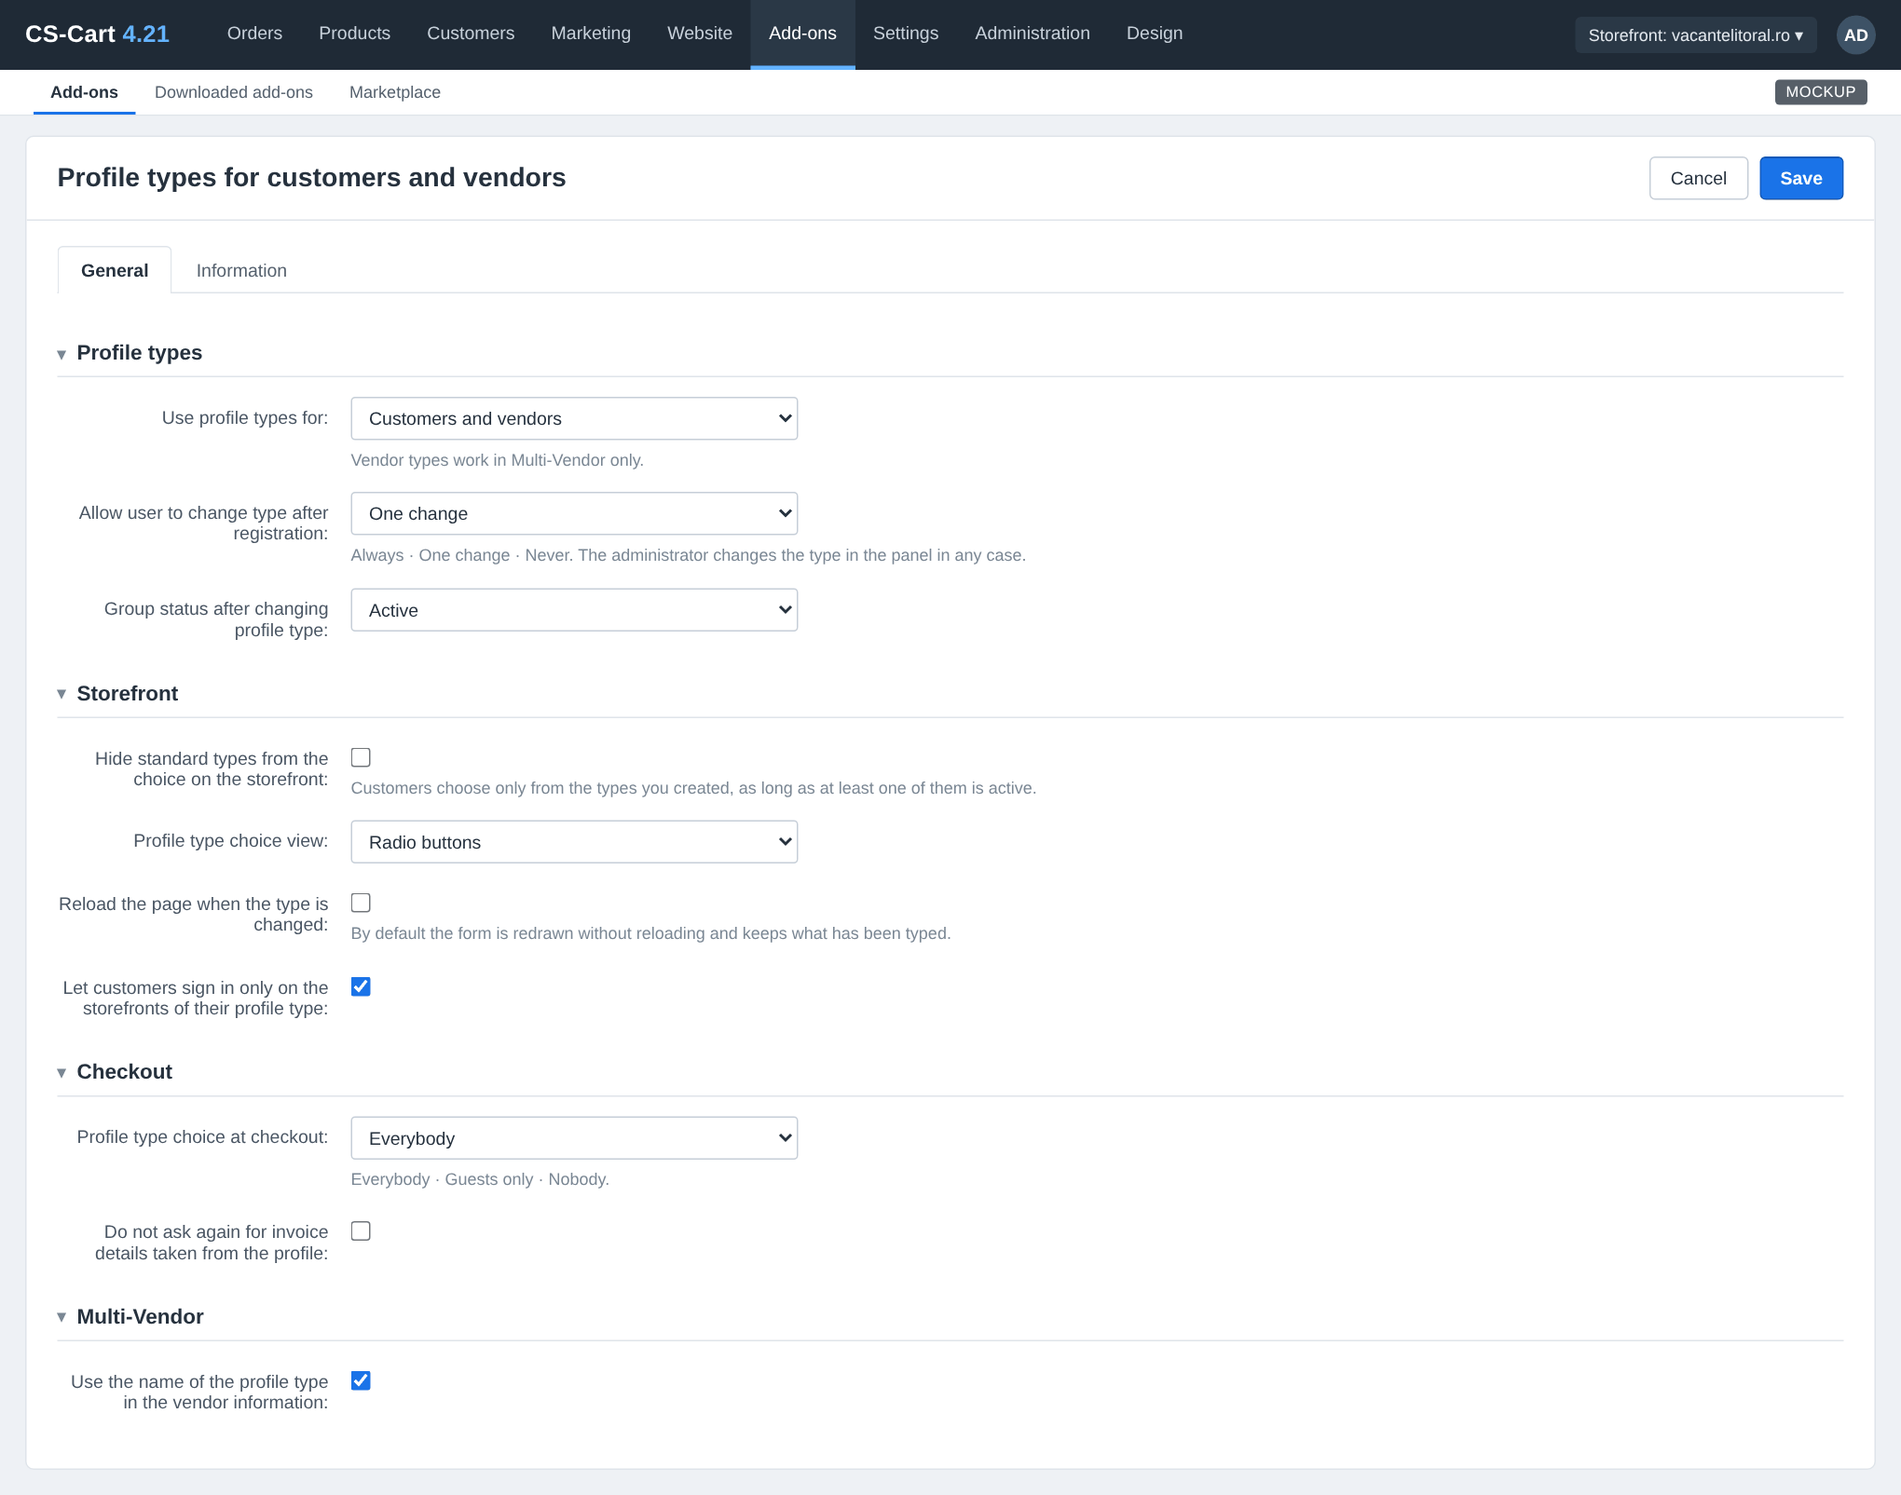
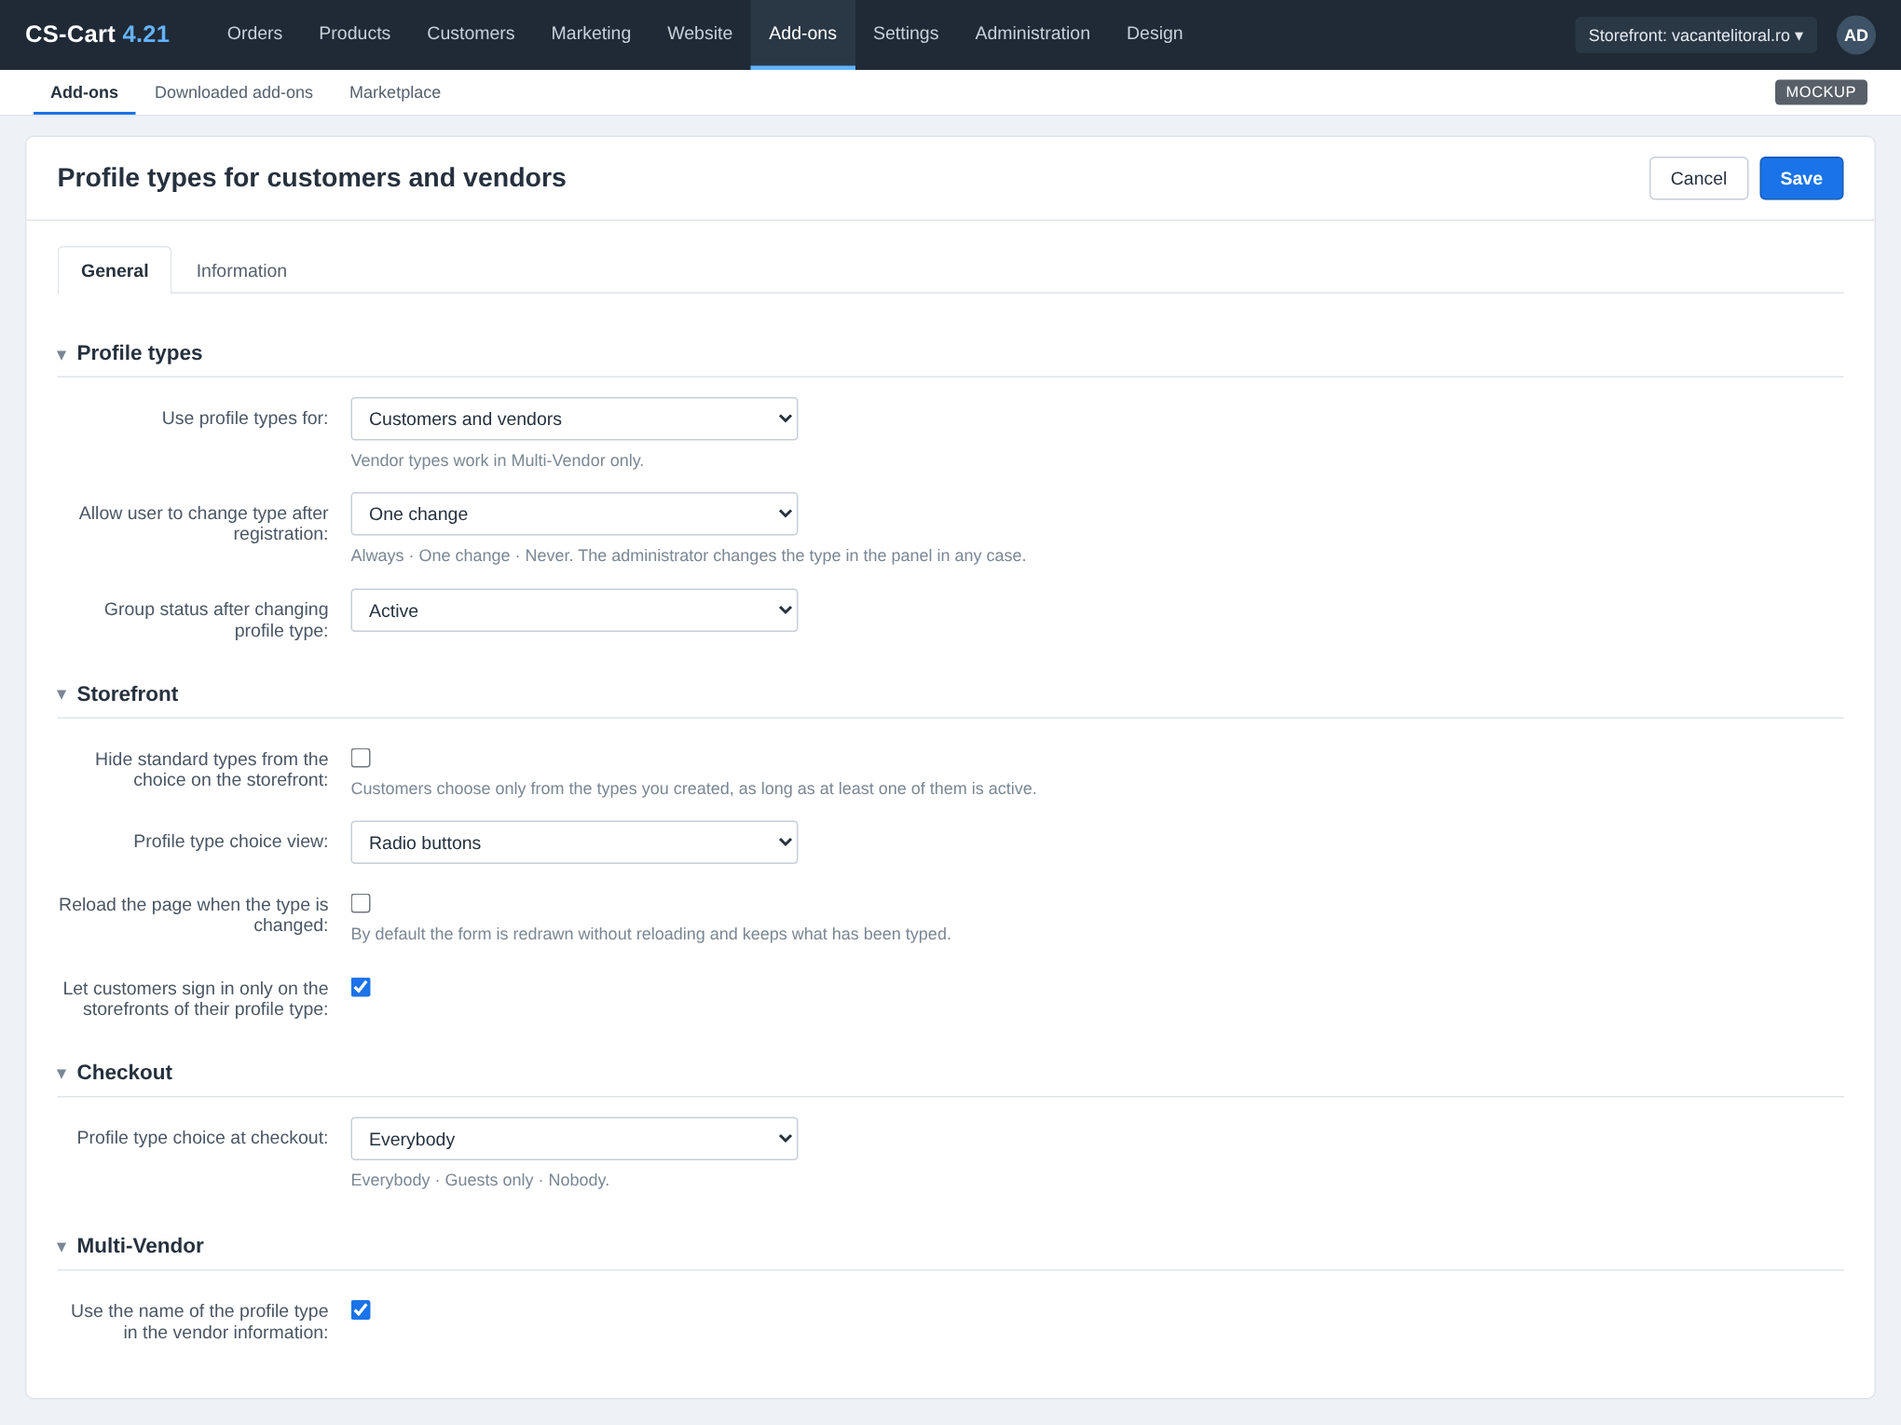
Profile types: drop "Do not ask again for invoice details" (Russian Payments)
The setting came from the 1.x add-on: it filled the "Issue an invoice"
payment of CS-Cart's rus_payments add-on (Russian edition: INN, KPP, bank
details) from the profile and hid its inputs. The store invoices through
FGO, which has no checkout form of its own: it reads the company name, CIF,
Reg. Com. and CNP from the order's profile fields of the customer's type,
so the details are typed once anyway. The setting did nothing without
rus_payments.

Removed: the setting (addon.xml, Settings), the checkout controller block
and fn_euph_profile_types_invoice_details(), the storefront script part
(invoice_prefill, applyInvoiceDetails), its styles and texts. A store that
has the add-on installed loses the setting too:
fn_euph_profile_types_remove_obsolete_settings() runs when the add-on's
settings page or its types are opened.

README, mockups (settings, checkout) updated.

Claude-Session: https://claude.ai/code/session_01D7kE71rR7KY3if3Q4XPuA7

diff --git a/Addon-euph-profile_types/js/addons/euph_profile_types/func.js b/Addon-euph-profile_types/js/addons/euph_profile_types/func.js
@@ -23,10 +23,6 @@
  * locks "required"), "Same as the general checkboxes", "Clear", and the copy
  * buttons of the registration links.
  *
- * Russian Payments, "Issue an invoice": the details the profile already
- * holds are filled in and their inputs hidden ("Do not ask again for invoice
- * details taken from the profile").
- *
  * The helpers that need no page are on window.EuphProfileTypes, for
  * tests/js/euph-profile-types.test.mjs.
  */
@@ -551,47 +547,6 @@
 
         if (pill) {
             pill.checked = radio.checked;
-        }
-    }
-
-    /* ── Russian Payments: invoice details taken from the profile ─────── */
-
-    /** Set by the add-on's inline script (hooks/index/scripts.post.tpl). */
-    function invoiceDetails() {
-        var data = _.euph_profile_types ? _.euph_profile_types.invoice_prefill : null;
-
-        return data && typeof data === 'object' ? data : null;
-    }
-
-    function applyInvoiceDetails(context) {
-        var details = invoiceDetails();
-
-        if (!details) {
-            return;
-        }
-        var $context = $(context || document);
-        var taken = [];
-
-        Object.keys(details).forEach(function (key) {
-            var $input = $context.find('[name="payment_info[' + cssEscape(key) + ']"]');
-
-            if (!$input.length || $input.hasClass('euph-pt-prefilled-input')) {
-                return;
-            }
-            $input.val(details[key]).addClass('euph-pt-prefilled-input');
-            var $group = $input.closest('.ty-control-group, .litecheckout__field, .control-group');
-
-            ($group.length ? $group : $input).addClass('euph-pt-prefilled');
-            var label = $.trim(($group.find('label').first().text() || key).replace(/[:*]\s*$/, ''));
-
-            taken.push(label);
-        });
-
-        if (taken.length) {
-            var $summary = $('<p class="euph-pt-prefilled-summary"></p>');
-
-            $summary.text((_.tr('euph_profile_types.invoice_details_taken') || 'Taken from your profile:') + ' ' + taken.join(', '));
-            $context.find('.euph-pt-prefilled').first().before($summary);
         }
     }
 
@@ -1162,7 +1117,6 @@
     if ($.ceEvent) {
         $.ceEvent('on', 'ce.commoninit', function (context) {
             applyPills(context);
-            applyInvoiceDetails(context);
         });
     }
     $(function () {
@@ -1194,7 +1148,6 @@
         syncRequired: syncRequired,
         pickPill: pickPill,
         syncPill: syncPill,
-        optionText: optionText,
-        applyInvoiceDetails: applyInvoiceDetails
+        optionText: optionText
     };
 }(Tygh, Tygh.$));

diff --git a/Addon-euph-profile_types/docs/mockups/src/storefront-02-checkout.html b/Addon-euph-profile_types/docs/mockups/src/storefront-02-checkout.html
@@ -32,7 +32,6 @@
       <div class="step pay">
         <h3><span class="num">3</span>Payment</h3>
         <label class="on"><input type="radio" name="p" checked>Bank transfer — invoice on the company</label>
-        <p class="prefilled-summary">Taken from your profile: Company name, Tax number (CUI), Trade register no., Address <span class="mark">3</span></p>
         <label><input type="radio" name="p">Card online (Netopia)</label>
       </div>
     </div>
@@ -50,7 +49,6 @@
 <div class="legend">
   <div><span class="mark">1</span><span>The type is <b>chosen right at checkout, by a guest as well</b> (setting: everybody, guests only or nobody). Without the choice a signed-in customer orders with the type of their profile.</span></div>
   <div><span class="mark">2</span><span>The customer blocks of the checkout use the <b>"By profile type" filling</b>: they show the fields of the chosen type, required as that type says.</span></div>
-  <div><span class="mark">3</span><span>Russian Payments, "Issue an invoice": with <b>"Do not ask again for invoice details taken from the profile"</b> the details the profile holds are filled in and their inputs hidden; one line says what was taken.</span></div>
 </div>
 <div class="footer"><span>© 2026 VacanteLitoral.ro</span><span>Terms</span><span>Privacy</span></div>
 <span class="mockup-tag">MOCKUP</span>

diff --git a/Addon-euph-profile_types/docs/mockups/src/admin-08-settings.html b/Addon-euph-profile_types/docs/mockups/src/admin-08-settings.html
@@ -21,7 +21,6 @@
       <div class="control-group"><div class="control-label">Let customers sign in only on the storefronts of their profile type:</div><div class="controls" style="padding-top:7px"><input type="checkbox" checked></div></div>
       <div class="subheader">Checkout</div>
       <div class="control-group"><div class="control-label">Profile type choice at checkout:</div><div class="controls"><select class="w-large"><option>Everybody</option></select><p class="description">Everybody · Guests only · Nobody.</p></div></div>
-      <div class="control-group"><div class="control-label">Do not ask again for invoice details taken from the profile:</div><div class="controls" style="padding-top:7px"><input type="checkbox"></div></div>
       <div class="subheader">Multi-Vendor</div>
       <div class="control-group"><div class="control-label">Use the name of the profile type in the vendor information:</div><div class="controls" style="padding-top:7px"><input type="checkbox" checked></div></div>
     </div>

diff --git a/Addon-euph-profile_types/docs/mockups/src/storefront.css b/Addon-euph-profile_types/docs/mockups/src/storefront.css
@@ -47,5 +47,4 @@ h1.title { font-size: 26px; font-weight: 400; margin: 4px 0 20px; color: #222; }
 .legend code { white-space: nowrap; font-family: "Liberation Mono", "DejaVu Sans Mono", monospace; font-size: 12px; }
 .annot { display: flex; align-items: center; gap: 6px; border: 1px dashed #e9b949; background: #fffbea; color: #6b5a1f; font-size: 12px; padding: 6px 10px; border-radius: 4px; margin: 4px 0 0; }
 .annot .mark { flex: none; margin: 0 0 0 auto; }
-.prefilled-summary { margin: 2px 0 10px 30px; padding: 7px 10px; background: #eef7ee; border-left: 3px solid #43a047; color: #2e5e30; font-size: 13px; }
 label .mark, h2 .mark, h3 .mark { margin-top: -6px; margin-bottom: -6px; }

diff --git a/Addon-euph-profile_types/design/themes/responsive/css/addons/euph_profile_types/styles.less b/Addon-euph-profile_types/design/themes/responsive/css/addons/euph_profile_types/styles.less
@@ -102,21 +102,6 @@
     transition: opacity .15s ease-in-out;
 }
 
-// Invoice details already taken from the profile (Russian Payments).
-.euph-pt-prefilled {
-    display: none;
-}
-
-.euph-pt-prefilled-summary {
-    margin: 6px 0 12px;
-    color: #6b7785;
-    font-size: 13px;
-
-    strong {
-        color: #333;
-    }
-}
-
 // Product page, Multi-Vendor: the vendor type next to the vendor's name.
 .euph-pt-vendor-type {
     display: inline-block;

diff --git a/Addon-euph-profile_types/app/addons/euph_profile_types/functions/orders.php b/Addon-euph-profile_types/app/addons/euph_profile_types/functions/orders.php
@@ -185,62 +185,3 @@ function fn_euph_profile_types_document_user_attributes(mixed $original): array
 
     return $attributes;
 }
-
-/**
- * The invoice details of the "Issue an invoice" payment (Russian Payments
- * add-on) that the customer's profile already holds: the payment's settings
- * map each detail to a profile field. One common list of fields means one
- * mapping for every type.
- *
- * @param array<string, mixed> $cart
- *
- * @return array<string, string> detail => value
- */
-function fn_euph_profile_types_invoice_details(array $cart): array
-{
-    $db = fn_euph_profile_types_container()->db();
-    $method = Cast::array($cart['payment_method_data'] ?? []);
-    $paymentId = Cast::int($cart['payment_id'] ?? ($method['payment_id'] ?? 0));
-    $script = $paymentId > 0 ? Cast::string($db->value(
-        'SELECT p.processor_script FROM ?:payments AS m INNER JOIN ?:payment_processors AS p ON p.processor_id = m.processor_id WHERE m.payment_id = ?i',
-        $paymentId,
-    )) : '';
-    $mapping = $script === 'account.php'
-        ? Cast::array(Cast::array($method['processor_params'] ?? [])['fields_account'] ?? [])
-        : [];
-    if ($mapping === []) {
-        // The customer may pick the invoice payment later on the page: its
-        // settings are read now, the inputs are hidden when they show up.
-        $raw = Cast::string($db->value(
-            'SELECT m.processor_params FROM ?:payments AS m INNER JOIN ?:payment_processors AS p ON p.processor_id = m.processor_id'
-            . ' WHERE p.processor_script = ?s AND m.status = ?s ORDER BY m.position ASC, m.payment_id ASC',
-            'account.php',
-            'A',
-        ));
-        $params = $raw !== '' ? @unserialize($raw, ['allowed_classes' => false]) : [];
-        $mapping = Cast::array(Cast::array($params)['fields_account'] ?? []);
-    }
-    if ($mapping === []) {
-        return [];
-    }
-    $userData = Cast::array($cart['user_data'] ?? []);
-    $custom = Cast::array($userData['fields'] ?? []);
-    $fields = fn_euph_profile_types_field_rows(Cast::idList(array_filter($mapping, 'is_scalar')));
-
-    $details = [];
-    foreach ($mapping as $key => $fieldId) {
-        $field = $fields[Cast::int($fieldId)] ?? null;
-        if ($field === null) {
-            continue;
-        }
-        $name = Cast::string($field['field_name'] ?? '');
-        $value = Cast::flag($field['is_default'] ?? 'N') && $name !== ''
-            ? Cast::string($userData[$name] ?? '')
-            : Cast::string($custom[Cast::int($fieldId)] ?? '');
-        if (trim($value) !== '') {
-            $details[(string) $key] = trim($value);
-        }
-    }
-
-    return $details;
-}

diff --git a/Addon-euph-profile_types/app/addons/euph_profile_types/functions/install.php b/Addon-euph-profile_types/app/addons/euph_profile_types/functions/install.php
@@ -77,6 +77,56 @@ function fn_euph_profile_types_uninstall(): void
 }
 
 /**
+ * Settings earlier versions of the add-on had and this one dropped.
+ *
+ * @return list<string>
+ */
+function fn_euph_profile_types_obsolete_settings(): array
+{
+    return ['invoice_details_from_profile'];
+}
+
+/**
+ * Removes the settings this version dropped from a store that has the add-on
+ * installed: CS-Cart keeps the settings an add-on had at install, so the
+ * settings page would go on showing options that do nothing. Returns how many
+ * were removed. Never breaks a page: on a failure they just stay.
+ */
+function fn_euph_profile_types_remove_obsolete_settings(): int
+{
+    try {
+        $db = fn_euph_profile_types_container()->db();
+        if (!$db->tableExists('?:settings_objects') || !$db->tableExists('?:settings_sections')) {
+            return 0;
+        }
+        $ids = Cast::idList($db->column(
+            'SELECT o.object_id FROM ?:settings_objects AS o'
+            . ' INNER JOIN ?:settings_sections AS s ON s.section_id = o.section_id'
+            . ' WHERE s.name = ?s AND s.type = ?s AND o.name IN (?a)',
+            'euph_profile_types',
+            'ADDON',
+            fn_euph_profile_types_obsolete_settings(),
+        ));
+        if ($ids === []) {
+            return 0;
+        }
+        $db->execute('DELETE FROM ?:settings_objects WHERE object_id IN (?n)', $ids);
+        if ($db->tableExists('?:settings_descriptions')) {
+            $db->execute('DELETE FROM ?:settings_descriptions WHERE object_id IN (?n) AND object_type = ?s', $ids, 'O');
+        }
+        if ($db->tableExists('?:settings_vendor_values')) {
+            $db->execute('DELETE FROM ?:settings_vendor_values WHERE object_id IN (?n)', $ids);
+        }
+
+        return count($ids);
+    } catch (\Throwable $e) {
+        error_log('euph_profile_types: old settings were not removed: ' . $e->getMessage());
+
+        return 0;
+    }
+}
+
+/**
  * The add-on's texts in every language of the store, written again when its
  * language packs change. CS-Cart reads the packs at install only, so a text
  * an update of the add-on changed or added would never show on a store that
@@ -143,6 +193,7 @@ function fn_euph_profile_types_ensure_schema(): void
         }
     }
     $container->types()->fillLinkKeys();
+    fn_euph_profile_types_remove_obsolete_settings();
 }
 
 /**

diff --git a/Addon-euph-profile_types/app/addons/euph_profile_types/controllers/frontend/checkout.post.php b/Addon-euph-profile_types/app/addons/euph_profile_types/controllers/frontend/checkout.post.php
@@ -3,7 +3,6 @@
 declare(strict_types=1);
 
 use Tygh\Addons\EuphProfileTypes\Cast;
-use Tygh\Registry;
 
 if (!defined('BOOTSTRAP')) {
     exit('Access denied');
@@ -21,21 +20,5 @@ if ($mode === 'complete') {
             'SELECT euph_profile_type FROM ?:orders WHERE order_id = ?i',
             $orderId,
         )));
-    }
-
-    return;
-}
-
-// "Do not ask again for invoice details taken from the profile": the
-// "Issue an invoice" payment of the Russian Payments add-on. The details its
-// settings map to profile fields are filled from the customer's data, and the
-// add-on's script hides the inputs already filled.
-if ($mode === 'checkout'
-    && fn_euph_profile_types_container()->settings()->invoiceDetailsFromProfile
-    && Registry::get('addons.rus_payments.status') === 'A'
-) {
-    $details = fn_euph_profile_types_invoice_details(fn_euph_profile_types_session_get('cart'));
-    if ($details !== []) {
-        fn_euph_profile_types_assign('euph_pt_invoice_prefill', fn_euph_profile_types_js_value($details));
     }
 }

diff --git a/Addon-euph-profile_types/app/addons/euph_profile_types/src/Settings.php b/Addon-euph-profile_types/app/addons/euph_profile_types/src/Settings.php
@@ -25,7 +25,6 @@ final readonly class Settings
         public bool $reloadOnChange = false,
         public bool $restrictLogin = false,
         public CheckoutChoice $checkoutChoice = CheckoutChoice::Everybody,
-        public bool $invoiceDetailsFromProfile = false,
         public bool $vendorTypeInProduct = false,
     ) {
     }
@@ -44,7 +43,6 @@ final readonly class Settings
             reloadOnChange: Cast::flag($settings['reload_on_change'] ?? 'N'),
             restrictLogin: Cast::flag($settings['restrict_login'] ?? 'N'),
             checkoutChoice: CheckoutChoice::tryFrom(Cast::string($settings['checkout_choice'] ?? '')) ?? CheckoutChoice::Everybody,
-            invoiceDetailsFromProfile: Cast::flag($settings['invoice_details_from_profile'] ?? 'N'),
             vendorTypeInProduct: Cast::flag($settings['vendor_type_in_product'] ?? 'N'),
         );
     }

diff --git a/Addon-euph-profile_types/app/addons/euph_profile_types/tests/Unit/Install/ScriptDataTest.php b/Addon-euph-profile_types/app/addons/euph_profile_types/tests/Unit/Install/ScriptDataTest.php
@@ -47,7 +47,7 @@ final class ScriptDataTest extends TestCase
         $storefront = (string) file_get_contents($design . '/themes/responsive/templates/addons/euph_profile_types/hooks/index/scripts.post.tpl');
 
         self::assertStringContainsString('list: {if $euph_pt_list_config}{$euph_pt_list_config nofilter}{else}null{/if}', $backend);
-        self::assertStringContainsString('invoice_prefill: {if $euph_pt_invoice_prefill}{$euph_pt_invoice_prefill nofilter}{else}null{/if}', $storefront);
+        self::assertStringContainsString('pills: {if $addons.euph_profile_types.choice_view == "pills"}true{else}false{/if}', $storefront);
     }
 
     public function testAValueCannotCloseTheScriptOrOpenAComment(): void

diff --git a/Addon-euph-profile_types/app/addons/euph_profile_types/tests/Unit/SettingsTest.php b/Addon-euph-profile_types/app/addons/euph_profile_types/tests/Unit/SettingsTest.php
@@ -25,7 +25,6 @@ final class SettingsTest extends TestCase
             'reload_on_change' => 'Y',
             'restrict_login' => 'Y',
             'checkout_choice' => 'guests',
-            'invoice_details_from_profile' => 'Y',
             'vendor_type_in_product' => 'Y',
         ]);
 
@@ -37,7 +36,6 @@ final class SettingsTest extends TestCase
         self::assertTrue($settings->reloadOnChange);
         self::assertTrue($settings->restrictLogin);
         self::assertSame(CheckoutChoice::GuestsOnly, $settings->checkoutChoice);
-        self::assertTrue($settings->invoiceDetailsFromProfile);
         self::assertTrue($settings->vendorTypeInProduct);
     }
 

diff --git a/Addon-euph-profile_types/app/addons/euph_profile_types/controllers/backend/addons.pre.php b/Addon-euph-profile_types/app/addons/euph_profile_types/controllers/backend/addons.pre.php
@@ -1,0 +1,13 @@
+<?php
+
+declare(strict_types=1);
+
+if (!defined('BOOTSTRAP')) {
+    exit('Access denied');
+}
+
+// The add-on's settings page shows only the settings this version has: the
+// ones an earlier version had are removed first.
+if ($mode === 'update' && ($_REQUEST['addon'] ?? '') === 'euph_profile_types') {
+    fn_euph_profile_types_remove_obsolete_settings();
+}
